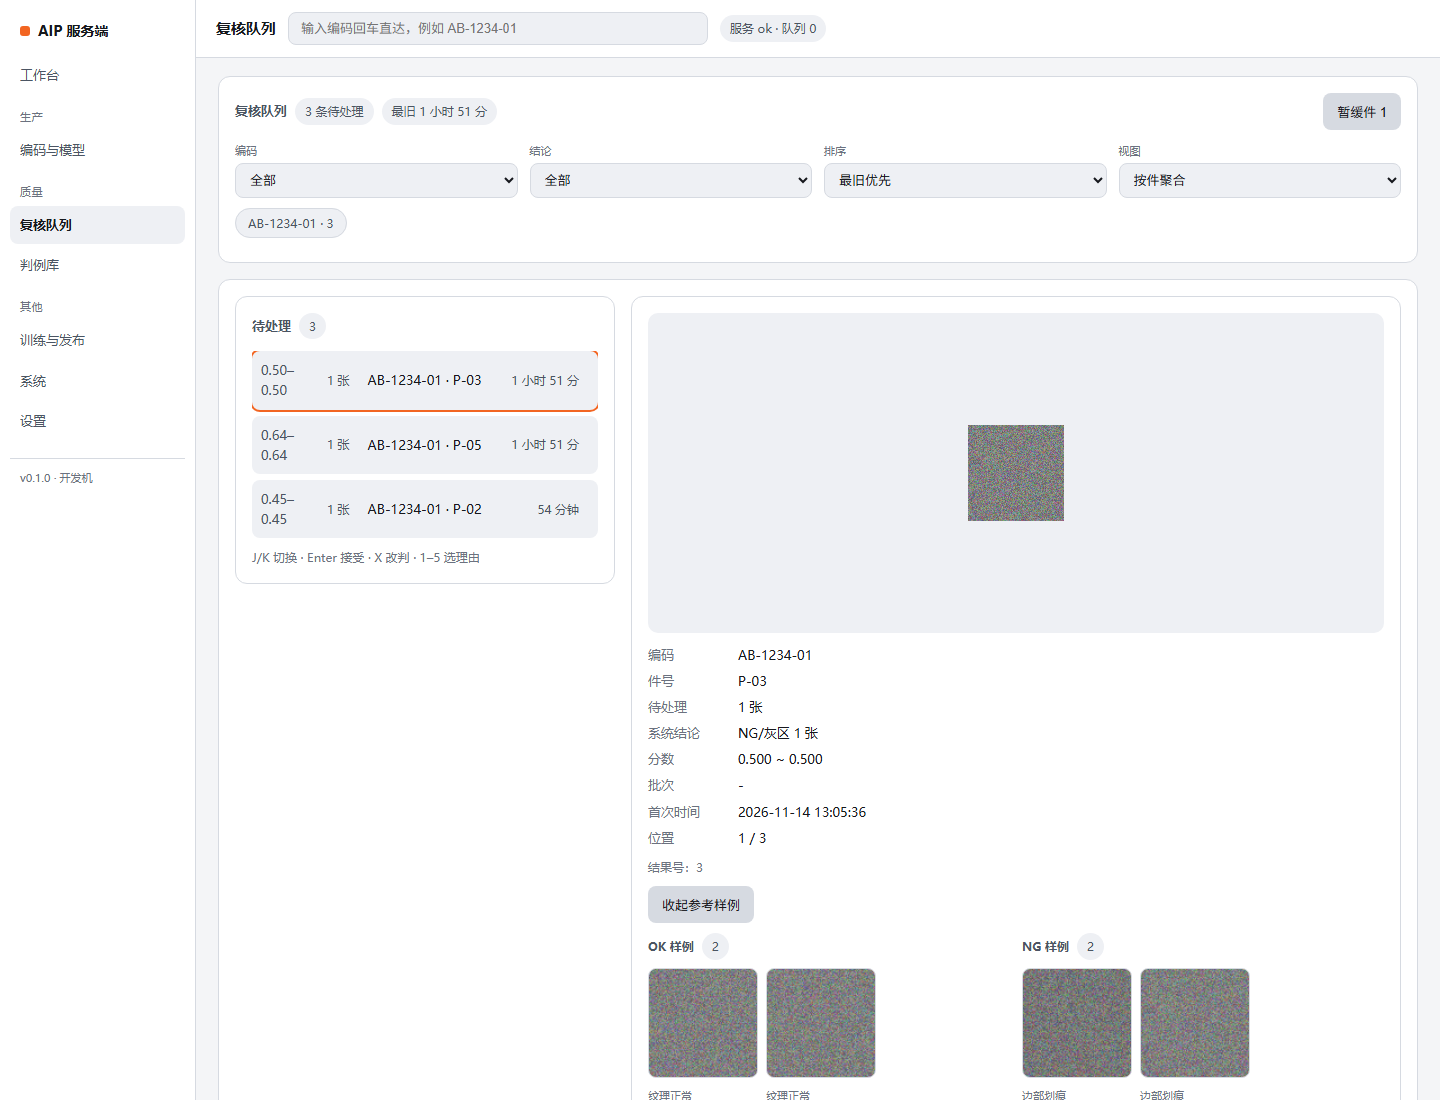
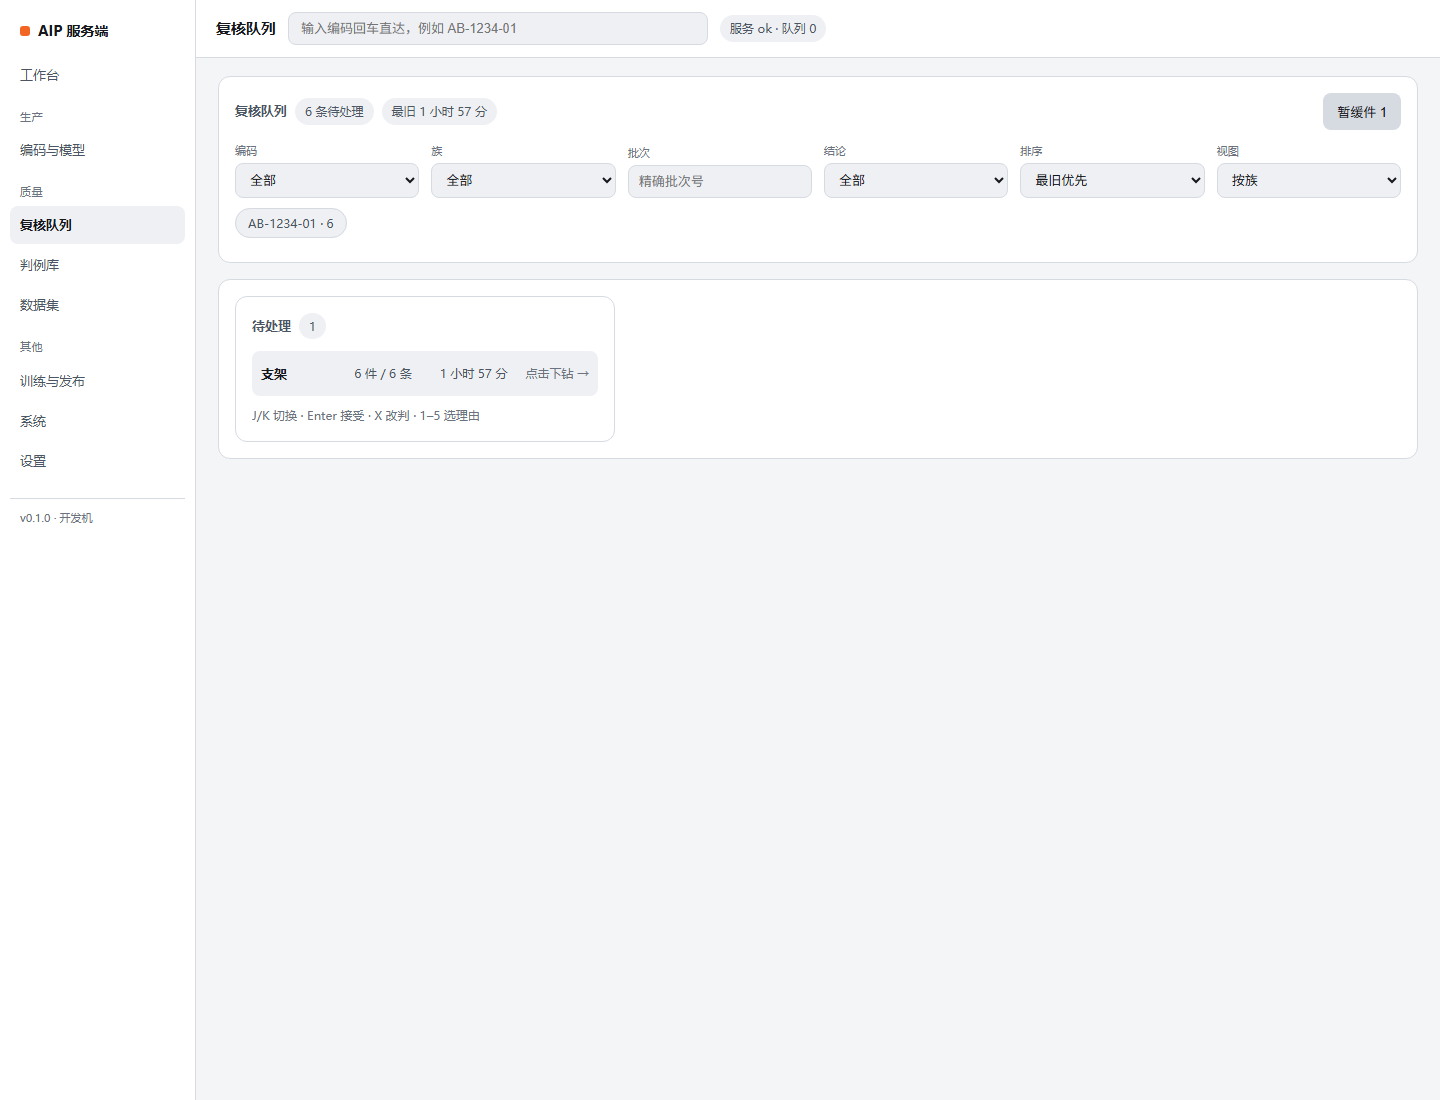
feat: 复核队列按族/编码/批次分组与下钻

diff --git a/aip/web/admin.html b/aip/web/admin.html
@@ -513,7 +513,7 @@ async function renderCode(code) {
   }
 }
 
-let reviewState = { code: "", label: "", sort: "oldest", groupBy: "part" };
+let reviewState = { code: "", family: "", batch: "", label: "", sort: "oldest", groupBy: "part" };
 
 function ageText(iso) {
   if (!iso) return "-";
@@ -527,12 +527,17 @@ function ageText(iso) {
 }
 
 async function renderQuality() {
+  // 深链：/#/quality?group=batch|family|code|part 直接进入分组视图
+  const deep = new URLSearchParams(location.hash.split("?")[1] || "");
+  if (deep.get("group")) reviewState.groupBy = deep.get("group");
   const params = new URLSearchParams({group_by: reviewState.groupBy, sort: reviewState.sort, limit: "50"});
   if (reviewState.code) params.set("code", reviewState.code);
+  if (reviewState.family) params.set("family", reviewState.family);
+  if (reviewState.batch) params.set("batch", reviewState.batch);
   if (reviewState.label) params.set("label", reviewState.label);
 
-  const [q, codes, settings] = await Promise.all([
-    api("/review/queue?" + params), api("/api/codes"), api("/api/settings")
+  const [q, codes, settings, families] = await Promise.all([
+    api("/review/queue?" + params), api("/api/codes"), api("/api/settings"), api("/api/families")
   ]);
   const autoRefs = !settings.some(r => r.key === "review.show_references_default" && r.value === false);
   const items = q.items;
@@ -547,6 +552,12 @@ async function renderQuality() {
         <select id="fq_code"><option value="">全部</option>
           ${codes.map(c => `<option value="${esc(c.code)}" ${reviewState.code === c.code ? "selected" : ""}>${esc(c.code)}</option>`).join("")}
         </select></div>
+      <div><label for="fq_family">族</label>
+        <select id="fq_family"><option value="">全部</option>
+          ${families.map(f => `<option value="${esc(f.name)}" ${reviewState.family === f.name ? "selected" : ""}>${esc(f.name)}</option>`).join("")}
+        </select></div>
+      <div><label for="fq_batch">批次</label>
+        <input id="fq_batch" value="${esc(reviewState.batch)}" placeholder="精确批次号"></div>
       <div><label for="fq_label">结论</label>
         <select id="fq_label">
           <option value="">全部</option>
@@ -563,6 +574,9 @@ async function renderQuality() {
       <div><label for="fq_group">视图</label>
         <select id="fq_group">
           <option value="part" ${reviewState.groupBy === "part" ? "selected" : ""}>按件聚合</option>
+          <option value="code" ${reviewState.groupBy === "code" ? "selected" : ""}>按编码</option>
+          <option value="family" ${reviewState.groupBy === "family" ? "selected" : ""}>按族</option>
+          <option value="batch" ${reviewState.groupBy === "batch" ? "selected" : ""}>按批次</option>
           <option value="result" ${reviewState.groupBy === "result" ? "selected" : ""}>按单条结果</option>
         </select></div>
     </div>`;
@@ -593,7 +607,7 @@ async function renderQuality() {
         <div class="review-list">
           <h2>待处理 <span class="pill">${items.length}</span></h2>
           <div id="rlist" class="queue"></div>
-          <div class="muted" style="margin-top:10px">J/K 切换 · Enter 接受 · X 改判 · 1–5 选理由</div>
+          <div class="muted" style="margin-top:10px">${isGroup ? "点击分组下钻到件" : "J/K 切换 · Enter 接受 · X 改判 · 1–5 选理由"}</div>
         </div>
         <div class="review-detail">
           <div class="shot"><img id="shot" alt="裁片"></div>
@@ -619,8 +633,18 @@ async function renderQuality() {
 
     const groupIds = (it) => it.kind === "part" ? it.result_ids : [it.id];
 
+    const isGroup = ["code", "family", "batch"].includes(reviewState.groupBy);
+
     function paint() {
       $("rlist").innerHTML = items.map((it, i) => {
+        if (["code", "family", "batch"].includes(it.kind)) {
+          return `<div class="item" data-i="${i}">
+            <span style="flex:1;font-weight:600">${esc(it.key)}</span>
+            <span class="pill">${it.parts} 件 / ${it.count} 条</span>
+            <span class="pill">${ageText(it.first_at)}</span>
+            <span class="muted">点击下钻 →</span>
+          </div>`;
+        }
         const ids = groupIds(it);
         const label = it.kind === "part"
           ? `<span class="pill">${it.count} 张</span>`
@@ -637,8 +661,37 @@ async function renderQuality() {
         </div>`;
       }).join("");
       document.querySelectorAll("#rlist .item").forEach(el => {
-        el.onclick = () => { idx = Number(el.dataset.i); reason = null; paint(); };
+        el.onclick = () => {
+          const i = Number(el.dataset.i);
+          const it = items[i];
+          if (["code", "family", "batch"].includes(it.kind)) {
+            if (it.kind === "code") reviewState.code = it.key;
+            if (it.kind === "family") reviewState.family = it.key;
+            if (it.kind === "batch") reviewState.batch = it.key;
+            reviewState.groupBy = "part";
+            renderQuality();
+            return;
+          }
+          idx = i; reason = null; paint();
+        };
       });
+
+      if (isGroup) {
+        $("shot").parentElement.style.display = "none";
+        $("rmeta").innerHTML = "<div>提示</div><div>点击左侧分组下钻到件</div>";
+        $("rshots").textContent = "";
+        $("rRefs").hidden = true;
+        $("rRefBtn").parentElement.style.display = "none";
+        document.querySelector("#rreasons").parentElement.style.display = "none";
+        document.querySelector("#rClaim").parentElement.style.display = "none";
+        document.querySelector("#rAccept").parentElement.parentElement.style.display = "none";
+        return;
+      }
+      $("shot").parentElement.style.display = "";
+      $("rRefBtn").parentElement.style.display = "";
+      document.querySelector("#rreasons").parentElement.style.display = "";
+      document.querySelector("#rClaim").parentElement.style.display = "";
+      document.querySelector("#rAccept").parentElement.parentElement.style.display = "";
 
       const cur = items[idx];
       const ids = groupIds(cur);
@@ -775,6 +828,12 @@ async function renderQuality() {
     }
 
     $("fq_code").onchange = (e) => { reviewState.code = e.target.value; renderQuality(); };
+    $("fq_family").onchange = (e) => { reviewState.family = e.target.value; renderQuality(); };
+    $("fq_batch").addEventListener("keydown", (e) => {
+      if (e.key !== "Enter") return;
+      reviewState.batch = e.target.value.trim();
+      renderQuality();
+    });
     $("fq_label").onchange = (e) => { reviewState.label = e.target.value; renderQuality(); };
     $("fq_sort").onchange = (e) => { reviewState.sort = e.target.value; renderQuality(); };
     $("fq_group").onchange = (e) => { reviewState.groupBy = e.target.value; renderQuality(); };
@@ -806,6 +865,12 @@ async function renderQuality() {
     }
 
     $("fq_code").onchange = (e) => { reviewState.code = e.target.value; renderQuality(); };
+    $("fq_family").onchange = (e) => { reviewState.family = e.target.value; renderQuality(); };
+    $("fq_batch").addEventListener("keydown", (e) => {
+      if (e.key !== "Enter") return;
+      reviewState.batch = e.target.value.trim();
+      renderQuality();
+    });
     $("fq_label").onchange = (e) => { reviewState.label = e.target.value; renderQuality(); };
     $("fq_sort").onchange = (e) => { reviewState.sort = e.target.value; renderQuality(); };
     $("fq_group").onchange = (e) => { reviewState.groupBy = e.target.value; renderQuality(); };

diff --git a/tests/test_api_review_group.py b/tests/test_api_review_group.py
@@ -1,0 +1,80 @@
+"""复核队列归类验收：按族/编码/批次分组与筛选。"""
+
+from __future__ import annotations
+
+import io
+
+import numpy as np
+import pytest
+from fastapi.testclient import TestClient
+from PIL import Image
+
+from aip import store, whitelist
+from aip.api.app import create_app
+
+
+def _png(seed: int) -> bytes:
+    rng = np.random.default_rng(seed)
+    arr = np.clip(np.full((64, 64, 3), 120, dtype=np.int16) + rng.integers(-40, 40, (64, 64, 3)), 0, 255).astype(np.uint8)
+    buf = io.BytesIO()
+    Image.fromarray(arr, "RGB").save(buf, format="PNG")
+    return buf.getvalue()
+
+
+@pytest.fixture()
+def client(tmp_path, monkeypatch):
+    monkeypatch.setenv("AIP_WHITELIST", str(tmp_path / "none.yaml"))
+    whitelist.reset_cache()
+    db = tmp_path / "api.db"
+    conn = store.connect(db)
+    store.migrate(conn)
+    conn.close()
+    return TestClient(create_app(db))
+
+
+def _seed(client, batch: str, parts: int = 2):
+    client.post("/api/codes", json={"code": "AB-1", "family": "支架类"})
+    resp = client.post("/api/models", json={"code": "M1"})
+    model_id = resp.json()["id"] if resp.status_code == 201 else client.get("/api/models").json()[0]["id"]
+    versions = client.get("/api/models").json()[0]["versions"]
+    if any(v["version_no"] == 1 for v in versions):
+        version = {"id": 1}
+    else:
+        version = client.post(f"/api/models/{model_id}/versions", json={"version_no": 1}).json()
+    client.put(f"/api/models/{model_id}/versions/1/status", json={"status": "assist"})
+    client.post("/api/bindings", json={"code": "AB-1", "model_id": model_id})
+    client.post("/api/configs", json={"model_version_id": version["id"], "rev": 1, "roi_rect": [0, 0, 64, 64]})
+    client.post("/api/thresholds", json={"model_version_id": version["id"], "roi_rev": 1, "rev": 1, "th_lo": 0.0, "th_hi": 1.0})
+
+    for p in range(parts):
+        client.post(
+            "/infer",
+            data={"code": "AB-1", "station": "S1", "part_no": f"P-{p}", "batch_no": batch},
+            files={"image": (f"{p}.png", _png(p), "image/png")},
+            headers={"Idempotency-Key": f"k-{batch}-{p}"},
+        )
+
+
+def test_group_by_family_and_code(client):
+    _seed(client, "B-1")
+    fam = client.get("/review/queue", params={"group_by": "family"}).json()
+    assert fam["items"][0]["key"] == "支架类"
+    assert fam["items"][0]["count"] == 2
+
+    code = client.get("/review/queue", params={"group_by": "code"}).json()
+    assert code["items"][0]["key"] == "AB-1"
+    assert code["items"][0]["parts"] == 2
+
+
+def test_group_by_batch_and_filter(client):
+    _seed(client, "B-1")
+    _seed(client, "B-2")
+    batches = client.get("/review/queue", params={"group_by": "batch"}).json()
+    keys = {it["key"]: it["count"] for it in batches["items"]}
+    assert keys == {"B-1": 2, "B-2": 2}
+
+    only_b2 = client.get("/review/queue", params={"batch": "B-2"}).json()
+    assert only_b2["summary"]["total"] == 2
+
+    only_fam = client.get("/review/queue", params={"family": "支架类"}).json()
+    assert only_fam["summary"]["total"] == 4

diff --git a/aip/src/aip/api/routes_review.py b/aip/src/aip/api/routes_review.py
@@ -48,6 +48,8 @@ def queue(
     station: str | None = None,
     min_score: float | None = None,
     max_score: float | None = None,
+    family: str | None = None,
+    batch: str | None = None,
     sort: str = "oldest",
     group_by: str = "part",
     limit: int = 50,
@@ -58,8 +60,8 @@ def queue(
         raise ApiError("bad_label", "label 只能是 ng/gray", "重选", 400)
     if sort not in ("oldest", "newest", "score_desc", "score_asc"):
         raise ApiError("bad_sort", "sort 取值不合法", "重选", 400)
-    if group_by not in ("part", "result"):
-        raise ApiError("bad_group", "group_by 只能是 part/result", "重选", 400)
+    if group_by not in ("part", "result", "code", "family", "batch"):
+        raise ApiError("bad_group", "group_by 只能是 part/result/code/family/batch", "重选", 400)
 
     where = [
         "r.label IN ('ng','gray')",
@@ -76,6 +78,12 @@ def queue(
     if station:
         where.append("s.name = ?")
         params.append(station)
+    if family:
+        where.append("f.name = ?")
+        params.append(family)
+    if batch:
+        where.append("j.batch_no = ?")
+        params.append(batch)
     if min_score is not None:
         where.append("r.score >= ?")
         params.append(min_score)
@@ -87,6 +95,8 @@ def queue(
         " FROM inference_result r"
         " JOIN inference_job j ON j.id = r.job_id"
         " LEFT JOIN station s ON s.id = j.station_id"
+        " LEFT JOIN product_code p ON p.code = j.code"
+        " LEFT JOIN family f ON f.id = p.family_id"
     )
 
     order = {
@@ -144,6 +154,28 @@ def queue(
                 "max_score": r["max_score"],
                 "first_at": r["first_at"],
                 "result_ids": [int(x) for x in str(r["ids"]).split(",")],
+            }
+            for r in rows
+        ]
+    elif group_by in ("code", "family", "batch"):
+        dim = {"code": "j.code", "family": "COALESCE(f.name,'未分类')", "batch": "COALESCE(j.batch_no,'未填批次')"}[group_by]
+        alias = {"code": "code", "family": "family", "batch": "batch_no"}[group_by]
+        rows = conn.execute(
+            f"SELECT {dim} AS {alias}, count(*) n, count(DISTINCT COALESCE(j.part_no,'-')) parts,"
+            " min(r.created_at) first_at"
+            + joins + where_sql
+            + f" GROUP BY {dim}"
+            + (" ORDER BY first_at ASC" if sort in ("oldest",) else " ORDER BY n DESC")
+            + " LIMIT ? OFFSET ?",
+            params + [max(1, min(limit, 200)), max(0, offset)],
+        ).fetchall()
+        items = [
+            {
+                "kind": group_by,
+                "key": r[alias],
+                "count": r["n"],
+                "parts": r["parts"],
+                "first_at": r["first_at"],
             }
             for r in rows
         ]

diff --git a/scripts/seed_batch_queue.py b/scripts/seed_batch_queue.py
@@ -1,0 +1,37 @@
+"""给队列补几条带批次的判定，演示分组视图。"""
+
+from __future__ import annotations
+
+import io
+
+import httpx
+import numpy as np
+from PIL import Image
+
+BASE = "http://127.0.0.1:8100"
+
+
+def png(seed: int) -> bytes:
+    rng = np.random.default_rng(seed)
+    arr = np.clip(np.full((96, 96, 3), 120, dtype=np.int16) + rng.integers(-40, 40, (96, 96, 3)), 0, 255).astype(np.uint8)
+    buf = io.BytesIO()
+    Image.fromarray(arr, "RGB").save(buf, format="PNG")
+    return buf.getvalue()
+
+
+with httpx.Client(base_url=BASE, timeout=20) as c:
+    n = 0
+    for batch in ("B-2026-11-01", "B-2026-11-02"):
+        for i in range(3):
+            r = c.post(
+                "/infer",
+                data={"code": "AB-1234-01", "station": "S1", "part_no": f"P-{batch[-2:]}-{i}",
+                      "batch_no": batch},
+                files={"image": (f"{batch}-{i}.png", png(hash((batch, i)) % 1000), "image/png")},
+                headers={"Idempotency-Key": f"seed-{batch}-{i}"},
+            )
+            n += 1 if r.status_code == 202 else 0
+    q = c.get("/review/queue", params={"group_by": "batch"}).json()
+    print("submitted", n)
+    for it in q["items"]:
+        print(" ", it["key"], it["count"], "件", it["parts"])
